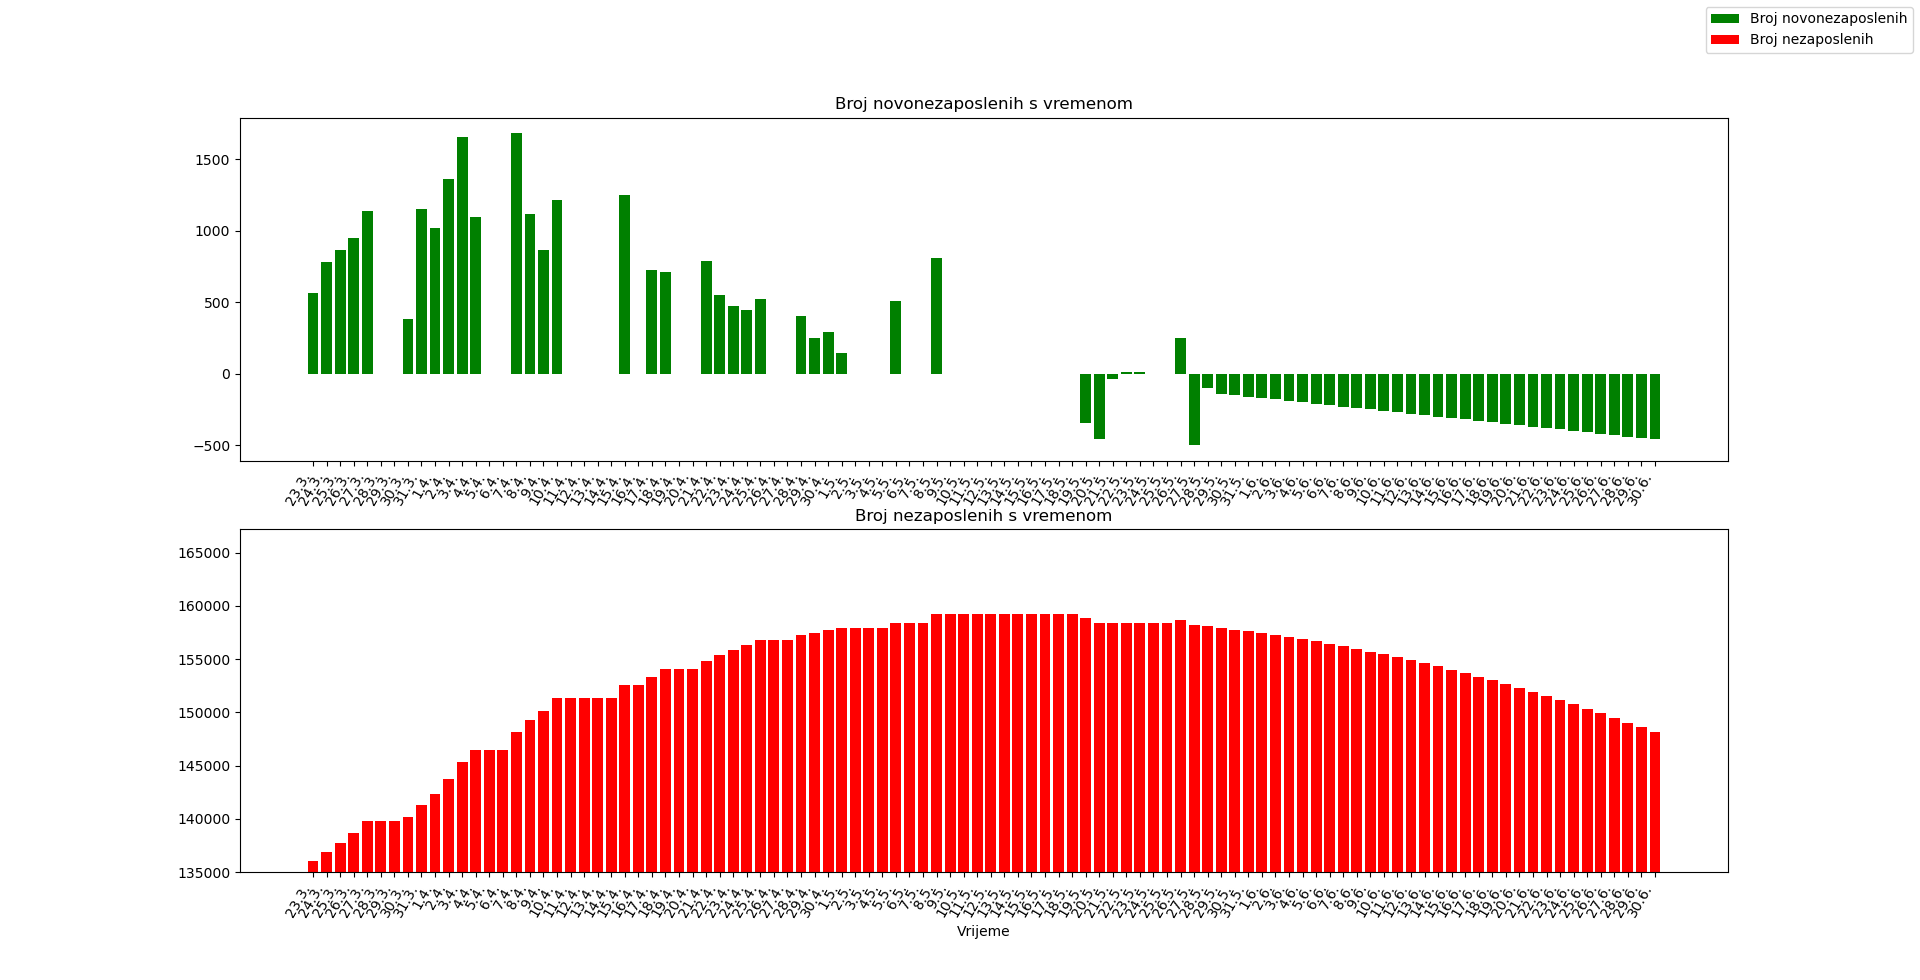
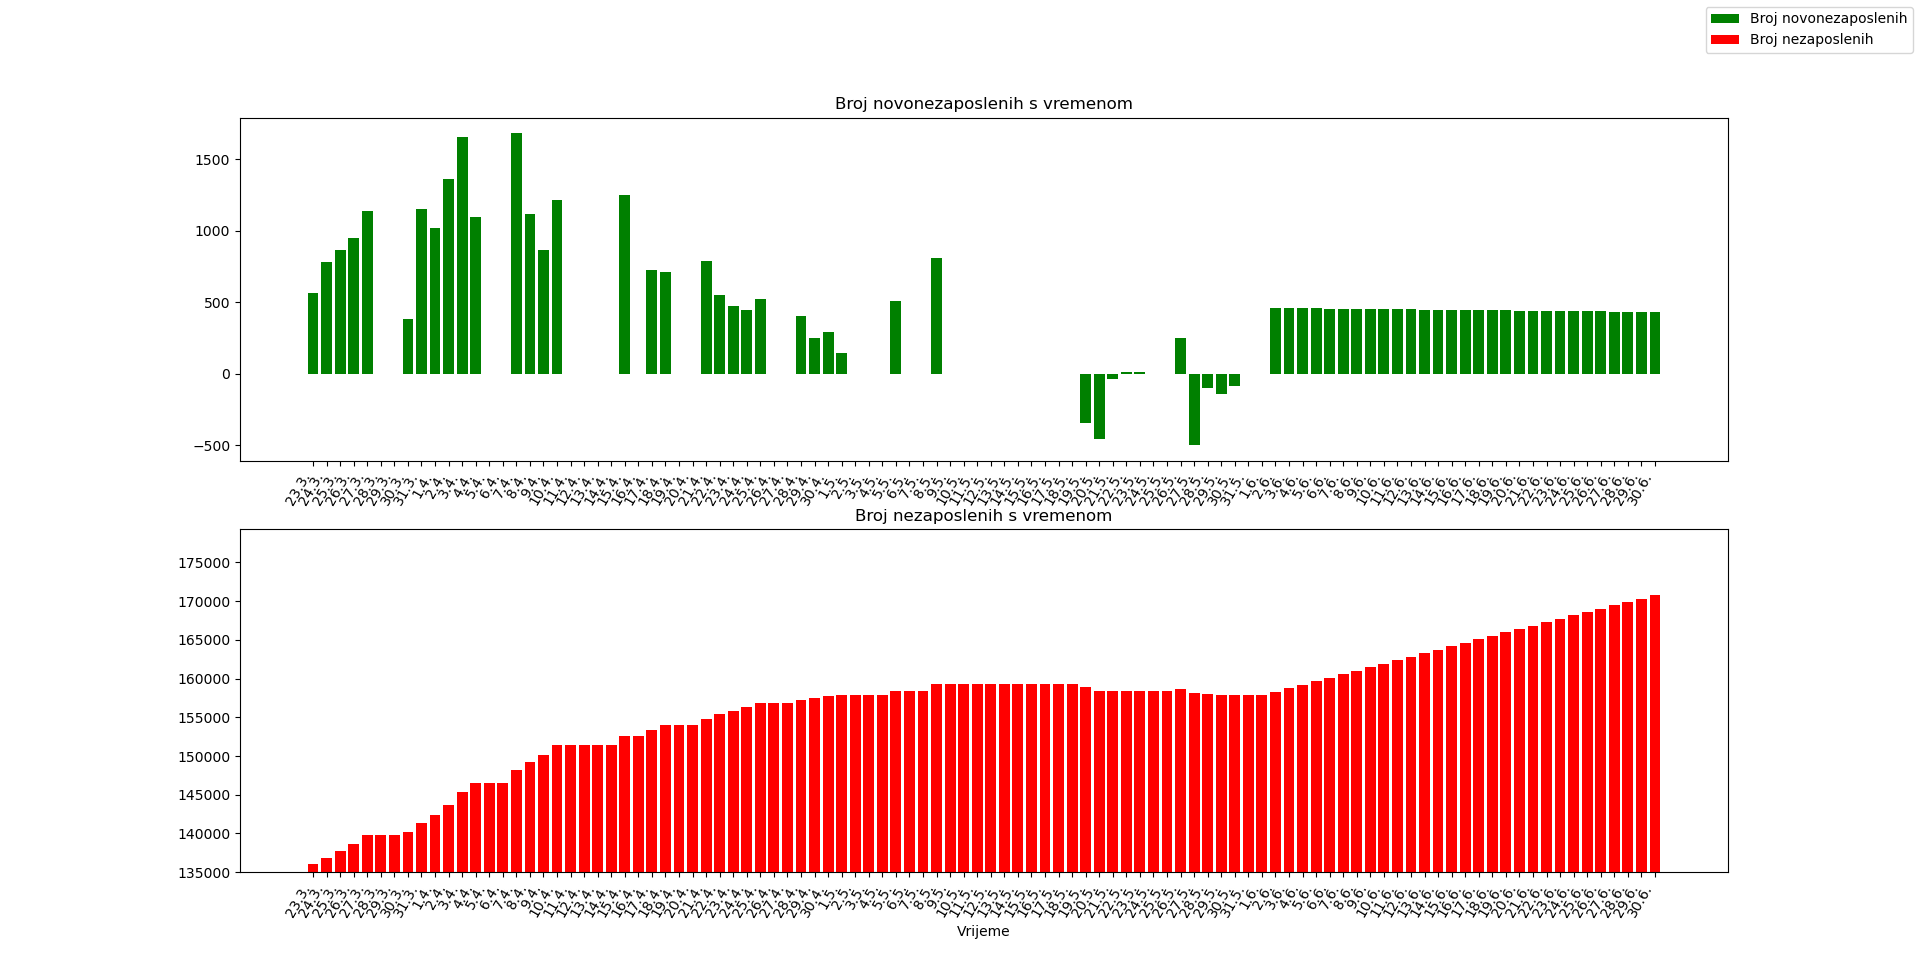
Nezaposlenost update 2.6.

diff --git a/stanovnistvo.py b/stanovnistvo.py
@@ -1,0 +1,48 @@
+import matplotlib.pyplot as plt
+
+godine = [2001, 2002, 2003, 2004, 2005, 2006, 2007, 2008, 2009, 2010,
+          2011, 2012, 2013, 2014, 2015, 2016, 2017, 2018, 2019, 2020,
+          2021, 2022, 2023, 2024, 2025, 2026, 2027, 2028, 2029, 2030,
+          2031, 2032, 2033, 2034, 2035, 2036, 2037, 2038, 2039, 2040,
+          2041, 2042, 2043, 2044, 2045, 2046, 2047, 2048, 2049, 2050]
+
+broj_stan = [4305494, 4305384, 4305725, 4310861, 4312487, 4313530, 4311967, 4309796, 4302847, 4289857,
+             4275984, 4262140, 4246809, 4225316, 4190669, 4154213, 4105493, 4076246, 4050000]
+
+razlike = []
+
+for i, num in enumerate(broj_stan):
+    if i == 0:
+        osn = num
+    else:
+        raz = num - broj_stan[i - 1]
+        razlike.append(raz)
+
+diffs = []
+broj_godina_real = len(broj_stan)
+broj_godina = len(godine)
+
+for j in range(broj_godina_real):
+    if j < broj_godina_real - 2:
+        old = razlike[j]
+        new = razlike[j + 1]
+        diff = new - old
+        diffs.append(diff)
+
+prosjek_stanovnika = int(sum(diffs) / len(diffs))
+print(f"Prosjek novoodseljenih na godinu: {prosjek_stanovnika}")
+
+for i in range(broj_godina - 1):
+    print(f"Godina: {godine[i]} | {broj_stan[i]}")
+    last_value = razlike[-1]
+    new_value = last_value + prosjek_stanovnika
+    new_nez = broj_stan[-1] + new_value
+    razlike.append(int(new_value))
+    broj_stan.append(int(new_nez))
+
+print(razlike)
+plt.bar(godine, broj_stan[:broj_godina])
+plt.xlabel('Vrijeme')
+plt.ylabel('Broj stanovnika u mil.')
+plt.legend('Broj stanovnika')
+plt.show()

diff --git a/nezaposlenost.py b/nezaposlenost.py
@@ -14,7 +14,7 @@ datumi = ['23.3.', '24.3.', '25.3.', '26.3.', '27.3.', '28.3.', '29.3.', '30.3.'
 
 broj_novonez = [565, 784, 867, 951, 1140, 0, 0, 382, 1153, 1019, 1358, 1658, 1098, 0, 0, 1682, 1115, 867, 1215, 0, 0, 0,
                 0, 1249, 0, 728, 711, 0, 0, 787, 550, 474, 447, 524, 0, 0, 401, 251, 292, 147, 0, 0, 0, 508, 0, 0, 806,
-                0, 0, 0, 0, 0, 0, 0, 0, 0, 0, -343, -457, -41, 9, 12, 0, 0, 252, -500, -100, -141]
+                0, 0, 0, 0, 0, 0, 0, 0, 0, 0, -343, -457, -41, 9, 12, 0, 0, 252, -500, -100, -141, -87, 0, 0, 459]
 osn_broj_nez = 136071
 broj_nez = [136071]
 
